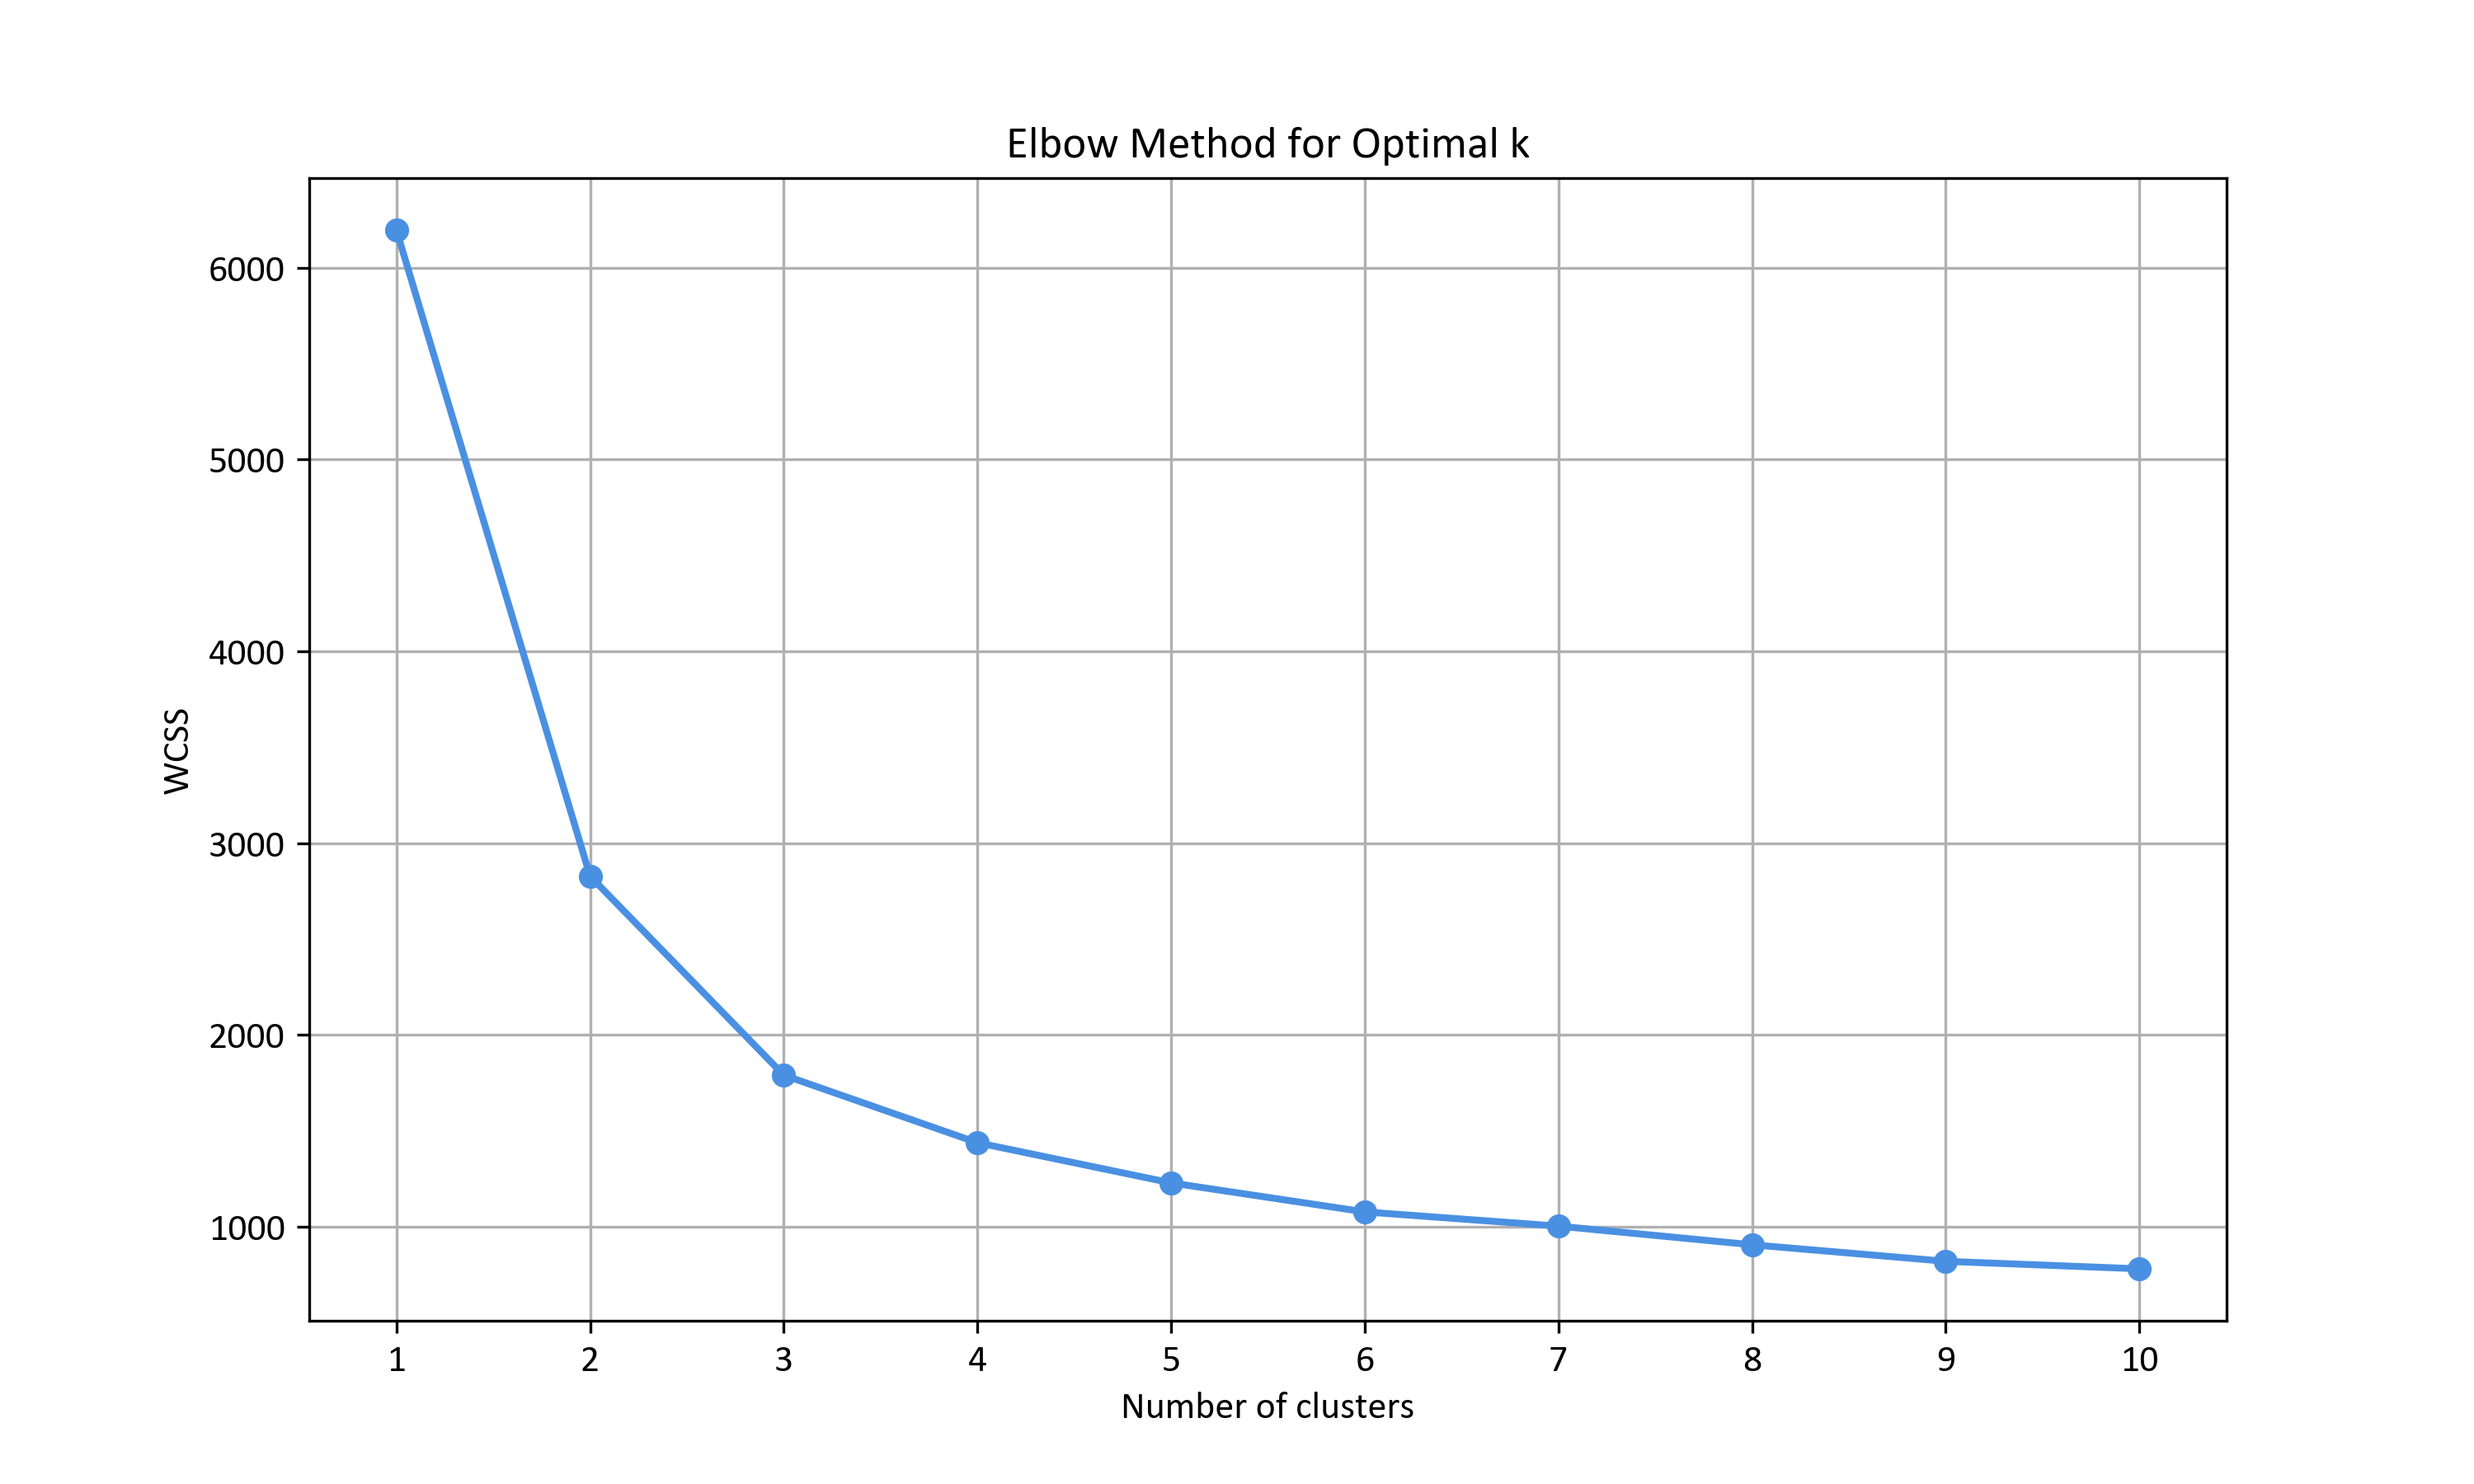
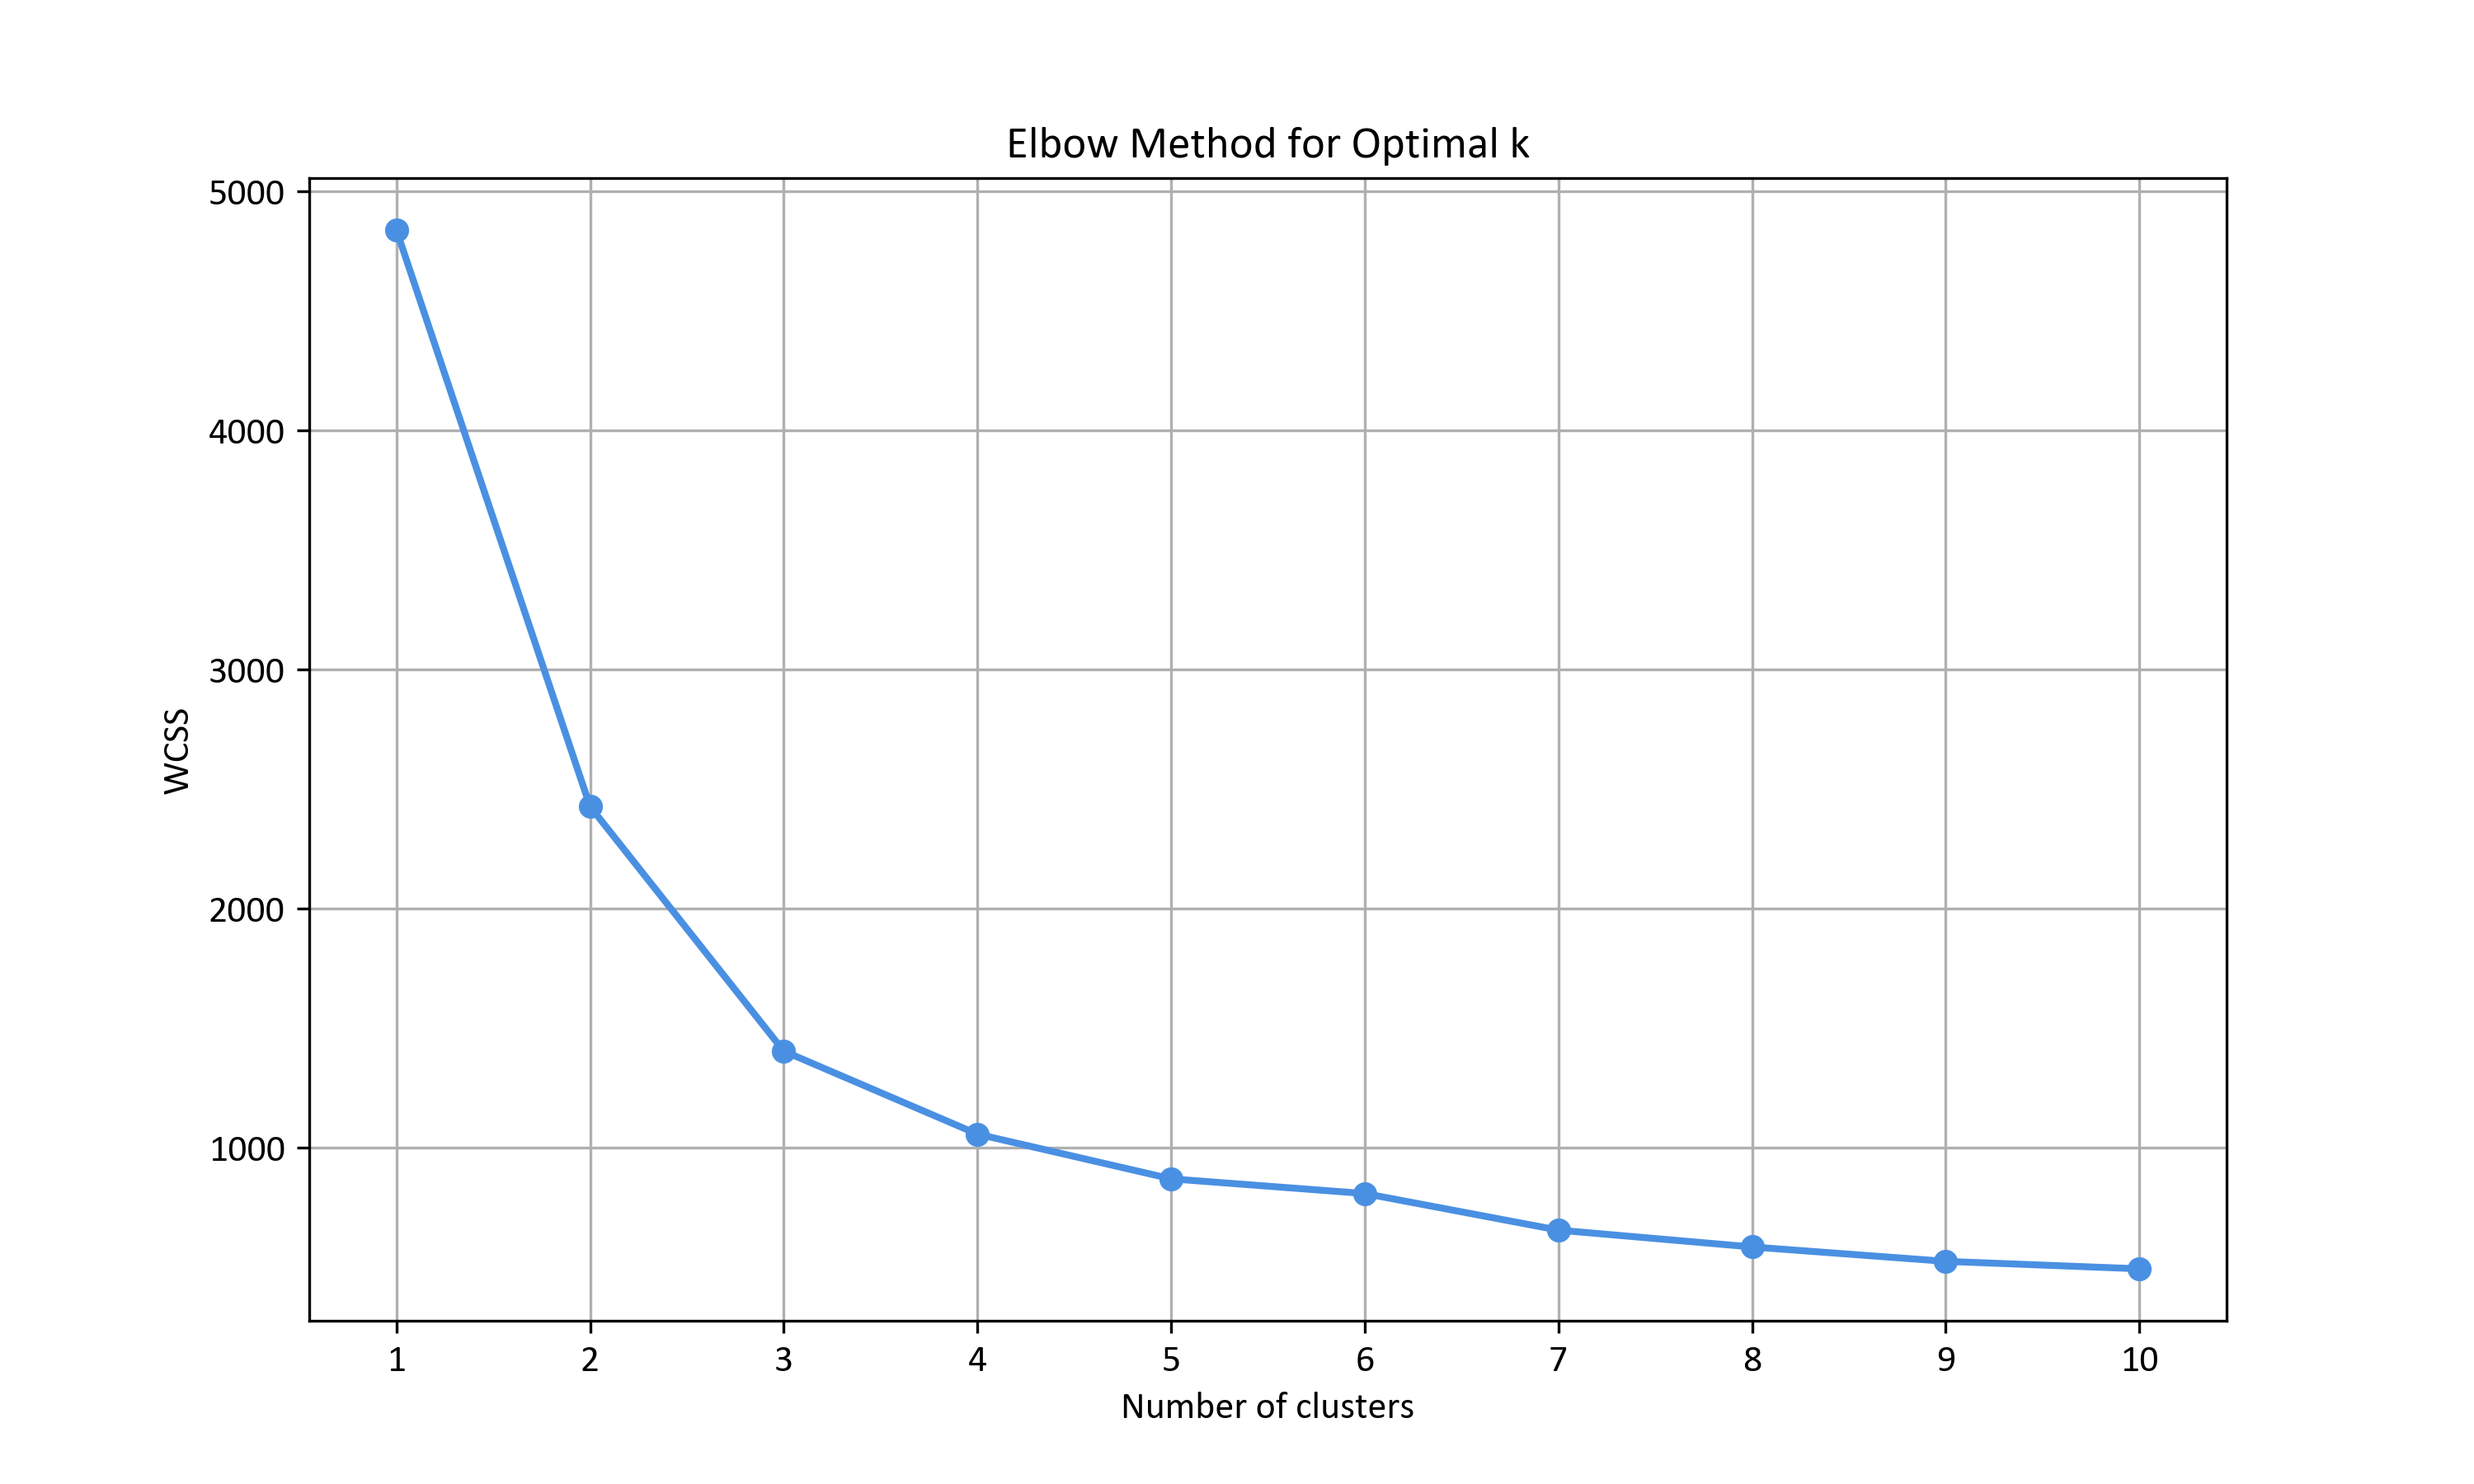
print labels per cluster

diff --git a/Python.Analysis/src/cluster_analysis.py b/Python.Analysis/src/cluster_analysis.py
@@ -2,16 +2,17 @@ from pathlib import Path
 from typing import List
 import numpy as np
 import matplotlib.pyplot as plt
+from matplotlib.patches import Circle
 from sklearn.cluster import KMeans
-from src.domain import Persistence, Trial
+from src.domain import Persistence, Trial, Condition
 
 def perform_cluster_analysis(trials: List[Trial], n_clusters: int) -> None:
     trial_features = np.array([
         [
             trial.distance_between_last_touch_and_pass(),
-            trial.timing_between_last_touch_and_pass(),
+            # trial.timing_between_last_touch_and_pass(),
             trial.average_interpersonal_distance(),
-            trial.interpersonal_distance_at_pass_time(),
+            # trial.interpersonal_distance_at_pass_time(),
             trial.number_lateral_changes_of_direction()
         ]
         for trial in trials
@@ -21,17 +22,37 @@ def perform_cluster_analysis(trials: List[Trial], n_clusters: int) -> None:
     kmeans.fit(trial_features)
     labels = kmeans.labels_
 
+    # Store the cluster label in the trial object
     for trial, label in zip(trials, labels):
-        print(f'Trial ID: {trial.participant_id}, Cluster: {label}')
+        trial.cluster_label = label
+
+    # Calculate and print percentage of trials in each cluster per condition
+    conditions = [Condition.IN_SITU, Condition.INTERACTION, Condition.NO_INTERACTION, Condition.NO_OPPONENT]
+    print("\nPercentage of trials in each cluster by condition:")
+    
+    for condition in conditions:
+        condition_trials = [trial for trial in trials if trial.condition == condition]
+        condition_labels = [trial.cluster_label for trial in condition_trials]
+        
+        print(f"\nCondition: {condition.value}")
+        for i in range(n_clusters):
+            cluster_percentage = np.sum(np.array(condition_labels) == i) / len(condition_labels) * 100 if condition_labels else 0
+            print(f'Cluster {i}: {cluster_percentage:.2f}%')
+
+    # Calculate and print average distribution of trials in each cluster
+    average_distribution = np.array([np.sum(labels == i) for i in range(n_clusters)]) / len(labels) * 100
+    print("\nAverage distribution of trials in each cluster:")
+    for i, avg in enumerate(average_distribution):
+        print(f'Cluster {i}: {avg:.2f}%')
 
 def plot_elbow_method(trials: List[Trial], max_clusters: int, persistence: Persistence) -> None:
     wcss = []
     trial_features = np.array([
         [
             trial.distance_between_last_touch_and_pass(),
-            trial.timing_between_last_touch_and_pass(),
+            # trial.timing_between_last_touch_and_pass(),
             trial.average_interpersonal_distance(),
-            trial.interpersonal_distance_at_pass_time(),
+            # trial.interpersonal_distance_at_pass_time(),
             trial.number_lateral_changes_of_direction()
         ]
         for trial in trials
@@ -53,4 +74,41 @@ def plot_elbow_method(trials: List[Trial], max_clusters: int, persistence: Persi
     # Save the plot using the persistence object
     persistence.save_figure(plt,Path("elbow_method_plot.png"))  # Adjust the filename as needed
     plt.savefig("elbow_method_plot.png")  # Save the plot locally
+    plt.close()  # Close the plot to free memory 
+
+def plot_cluster_distribution(trials: List[Trial], persistence: Persistence) -> None:
+    conditions = [Condition.IN_SITU, Condition.INTERACTION, Condition.NO_INTERACTION, Condition.NO_OPPONENT]
+    cluster_distributions = {condition: [] for condition in conditions}
+
+    # Collect cluster labels for each condition
+    for trial in trials:
+        cluster_distributions[trial.condition].append(trial.cluster_label)
+
+    # Create a figure with 4 subplots for each condition
+    fig, axes = plt.subplots(1, 4, figsize=(20, 5))
+    fig.suptitle('Cluster Distribution by Condition')
+
+    # Define a color cycler with white, black, and grey
+    colors = ['#FFFFFF', '#000000', '#808080']  # White, Black, Grey
+
+    for ax, condition in zip(axes, conditions):
+        labels, counts = np.unique(cluster_distributions[condition], return_counts=True)
+        sizes = counts / counts.sum() * 100  # Convert counts to percentages
+        
+        wedges, texts, autotexts = ax.pie(sizes, labels=[f'Cluster {label}' for label in labels], 
+                                            autopct='%1.1f%%', startangle=90, colors=colors,
+                                            wedgeprops=dict(linewidth=2, edgecolor='black'))  # Add outline properties
+        
+        # Add a circle outline around the pie chart
+        centre_circle = Circle((0, 0), 0.70, fc='white')  # Create a white circle in the center
+        ax.add_artist(centre_circle)  # Add the circle to the pie chart
+        ax.axis('equal')  # Equal aspect ratio ensures that pie is drawn as a circle
+        ax.set_title(condition.value)
+
+    plt.tight_layout()
+    plt.subplots_adjust(top=0.85)  # Adjust the top to make room for the title
+
+    # Save the plot using the persistence object
+    persistence.save_figure(plt, Path("cluster_distribution_plot.png"))  # Adjust the filename as needed
+    plt.savefig("cluster_distribution_plot.png")  # Save the plot locally
     plt.close()  # Close the plot to free memory 

diff --git a/Python.Analysis/main.py b/Python.Analysis/main.py
@@ -10,7 +10,7 @@ from src.regressions import (
     duration_and_touches_table,
     duration_and_touches_post_hoc
 )
-from src.cluster_analysis import perform_cluster_analysis, plot_elbow_method
+from src.cluster_analysis import perform_cluster_analysis, plot_elbow_method, plot_cluster_distribution
 
 
 
@@ -32,13 +32,11 @@ if __name__ == '__main__':
 
     plot_elbow_method(trials, max_clusters=10, persistence=persistence)
     perform_cluster_analysis(trials, n_clusters=3)
+    plot_cluster_distribution(trials, persistence=persistence)
 
     duration_and_touches_table(Path("model_1.nc"), Path("model_2.nc"), Path("model_predictions.docx"), persistence)
     duration_and_touches_predictive_figure(Path("model_1.nc"), Path("model_2.nc"), Path("predictions.png"), persistence)
     duration_and_touches_post_hoc(Path("model_1.nc"), Path("model_2.nc"), Path("ridge_differences.png"), persistence)
-
-
-
 
 
     # TrialVisualizer.print_trial_quality_summary(trials.trials)
